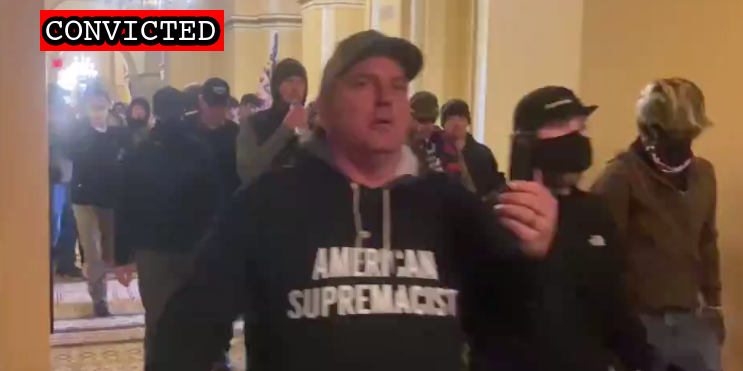
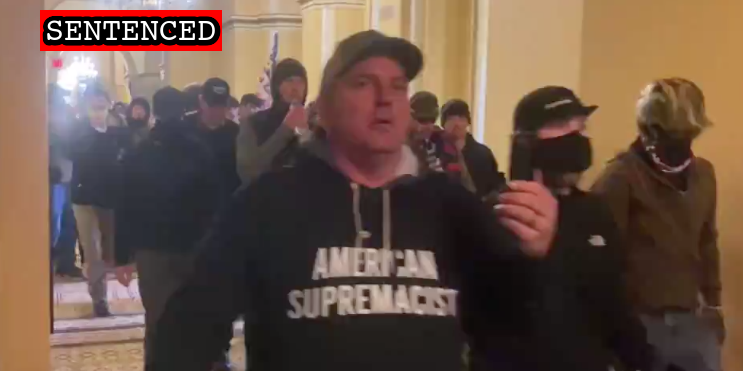
Sidorski sentence

Changed region(s): [[0.0619, 0.0296, 0.2476, 0.1482]]

diff --git a/docs/_suspects/dennis-sidorski.md b/docs/_suspects/dennis-sidorski.md
@@ -4,18 +4,18 @@ lastName: Sidorski
 hashtag: DennisSidorski
 aka:
 residence: Virginia
-status: Convicted
+status: Sentenced
 date: 2021-01-20
 charged: 2021-01-20
 indicted:
 convicted: 2022-01-21
 acquitted:
-sentenced:
+sentenced: 2022-07-11
 dismissed:
 deceased:
 plea_hearing: 2022-01-21
 trial_date:
-sentencing: 2022-06-28
+sentencing: 2022-07-11
 age: 46
 occupation:
 affiliations:
@@ -37,7 +37,11 @@ caseNumber: 1:21-cr-48
 videos:
 charges:
 sentence:
+  - 100 days incarceration
+  - 12 months probation
+  - $500 restitution
 ---
+
 - [News Report](https://www.newsweek.com/dennis-sidorski-american-supremacist-rioter-charged-employee-fbi-1566787)
 - [Statement of Facts](https://www.justice.gov/usao-dc/case-multi-defendant/file/1371516/download)
 - [Information](https://www.justice.gov/usao-dc/case-multi-defendant/file/1377856/download)
